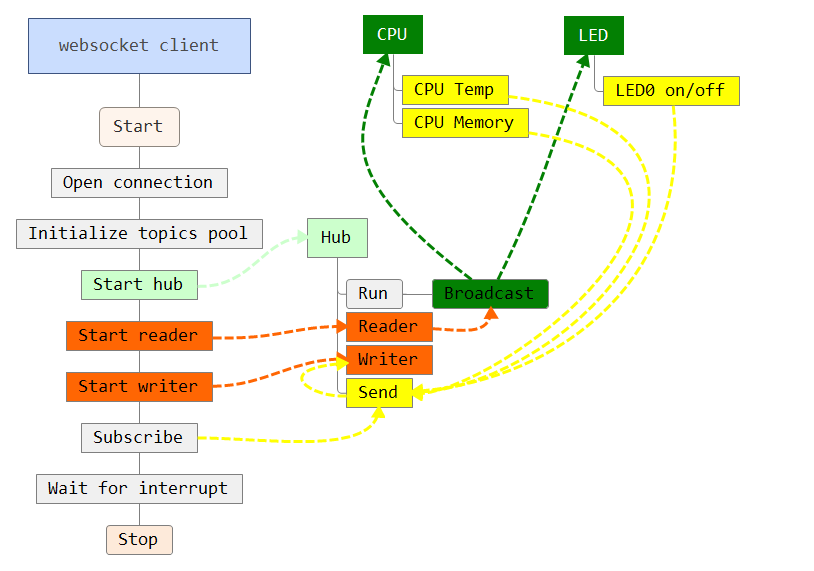
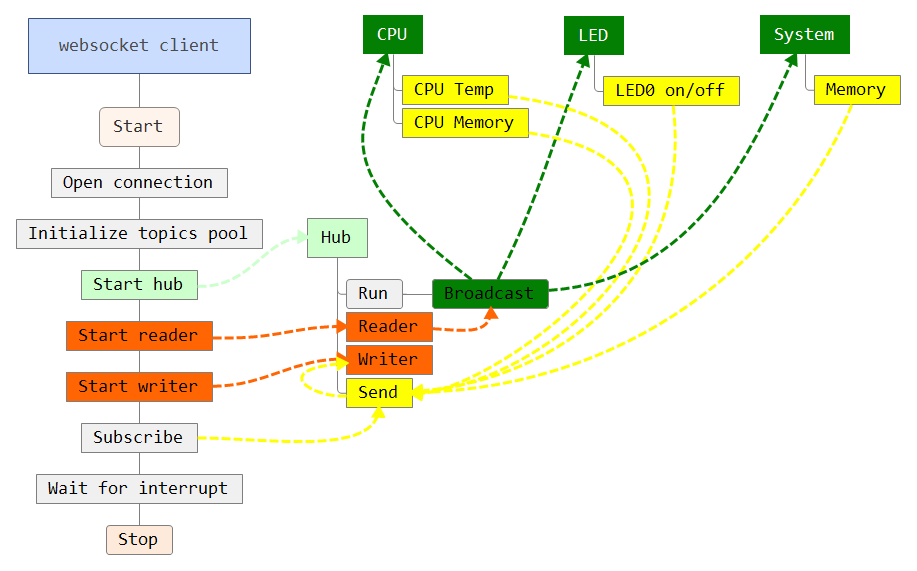
[UPD] add cpu temp, mem and system mem. vendor update, README.md update, mind schema update

diff --git a/src/client/main.go b/src/client/main.go
@@ -5,6 +5,7 @@ import (
 	"log"
 	"os"
 	"os/signal"
+	"strconv"
 	"time"
 
 	ctrl "controller"
@@ -17,7 +18,8 @@ import (
 func main() {
 	// variables
 	address := "ws://srv-gkdevmaster.rhcloud.com:8000/ws"
-	version := "0.1.9"
+	pingTimeout := 10
+	version := "0.1.9.2"
 
 	// args
 	for k, arg := range os.Args {
@@ -32,6 +34,11 @@ func main() {
 			err := service.CheckArgs(len(os.Args), k)
 			service.CheckError(err)
 			address = os.Args[k+1]
+		case "-p":
+			err := service.CheckArgs(len(os.Args), k)
+			service.CheckError(err)
+			pingTimeout, err = strconv.Atoi(os.Args[k+1])
+			service.CheckError(err)
 		}
 	}
 
@@ -51,6 +58,7 @@ func main() {
 		"RPI1_LED0":     rpi.Led0,
 		"RPI1_CPU_TEMP": rpi.CpuTemp,
 		"RPI1_CPU_MEM":  rpi.CpuMemory,
+		"RPI1_SYS_MEM":  rpi.SystemMemory,
 	}
 
 	log.Println("Connected to", address)
@@ -67,20 +75,14 @@ func main() {
 	// subscribe
 	ctrl.NewSubscribe(hub).Subscribe(topics)
 
-	//ticker := time.NewTicker(time.Second * 3)
-	//defer ticker.Stop()
-
-	// publish
-	//list := []func() []byte{rpi.CpuTemp, rpi.CpuMemory}
+	ticker := time.NewTicker(time.Duration(pingTimeout) * time.Minute)
+	defer ticker.Stop()
 
 	// wait for terminating
 	for {
 		select {
-		//case <-ticker.C:
-		//	for _, f := range list {
-		//		hub.Send(f())
-		//		//time.Sleep(time.Millisecond * 500)
-		//	}
+		case <-ticker.C:
+			hub.Send(ctrl.GetMessage("RPI1_PING", ""))
 
 		case <-interrupt:
 			fmt.Println("Stoping...")

diff --git a/src/command/cmd.go b/src/command/cmd.go
@@ -3,62 +3,13 @@ package command
 import (
 	"log"
 	"os/exec"
-	"strings"
 )
 
-type Command struct {
-}
-
-type args struct {
-	cmd       string
-	cmdArgs   []string
-	cleanArgs []string
-}
-
-// Constructor
-func NewCommand() *Command {
-	return &Command{}
-}
-
-// Command
-func (this *Command) Command(c string) *args {
-	return &args{c, nil, nil}
-}
-
-// Args for command
-func (this *args) Arg(a string) *args {
-	this.cmdArgs = append(this.cmdArgs, a)
-	return this
-}
-
-// String for clean
-func (this *args) Clean(a string) *args {
-	this.cleanArgs = append(this.cleanArgs, a)
-	return this
-}
-
-// Run the command
-func (this *args) Run() string {
-	cmdRes := cmdExec(this.cmd, this.cmdArgs...)
-	if cmdRes == "" {
-		return cmdRes
-	}
-	return clean(cmdRes, this.cleanArgs...)
-}
-
-func cmdExec(name string, args ...string) string {
+func Exec(name string, args ...string) string {
 	out, err := exec.Command(name, args...).Output()
 	if err != nil {
 		log.Println(err)
 		return ""
 	}
 	return string(out)
-}
-
-func clean(str string, args ...string) string {
-	s := strings.TrimSpace(str)
-	for _, arg := range args {
-		s = strings.Replace(s, arg, "", -1)
-	}
-	return s
 }

diff --git a/src/raspberry/cpu.go b/src/raspberry/cpu.go
@@ -1,19 +1,26 @@
 package raspberry
 
+import (
+	ctrl "controller"
+	cmd  "command"
+	"command/cpu"
+)
+
 // Get cpu temp.
 func (this *raspberry) CpuTemp(data string) []byte {
-	temp := this.command.Command("vcgencmd").Arg("measure_temp").Clean("temp=").Clean("'C").Run()
-	if temp == "" {
+	cpuTemp := cpu.Clean(cmd.Exec("vcgencmd", "measure_temp"), "temp=", "'C")
+	if cpuTemp == "" {
 		return nil
 	}
-	return getMessage("RPI1_CPU_TEMP", temp)
+	return ctrl.GetMessage("RPI1_CPU_TEMP", cpuTemp)
 }
 
 // Get cpu memory.
 func (this *raspberry) CpuMemory(data string) []byte {
-	mem := this.command.Command("vcgencmd").Arg("get_mem").Arg("arm").Clean("arm=").Clean("M").Run()
-	if mem == "" {
+
+	cpuMem := cpu.Clean(cmd.Exec("vcgencmd", "get_mem", "arm"), "arm=", "M")
+	if cpuMem == "" {
 		return nil
 	}
-	return getMessage("RPI1_CPU_MEM", mem)
+	return ctrl.GetMessage("RPI1_CPU_MEM", cpuMem)
 }

diff --git a/vendor/src/github.com/gorilla/websocket/example_test.go b/vendor/src/github.com/gorilla/websocket/example_test.go
@@ -12,6 +12,11 @@ import (
 	"github.com/gorilla/websocket"
 )
 
+var (
+	c   *websocket.Conn
+	req *http.Request
+)
+
 // The websocket.IsUnexpectedCloseError function is useful for identifying
 // application and protocol errors.
 //
@@ -20,7 +25,8 @@ import (
 // only expected close message from the client has the code
 // websocket.CloseGoingAway. All other other close messages are likely the
 // result of an application or protocol error and are logged to aid debugging.
-func ExampleIsUnexpectedCloseError(err error, c *websocket.Conn, req *http.Request) {
+func ExampleIsUnexpectedCloseError() {
+
 	for {
 		messageType, p, err := c.ReadMessage()
 		if err != nil {

diff --git a/vendor/src/github.com/gorilla/websocket/server.go b/vendor/src/github.com/gorilla/websocket/server.go
@@ -92,6 +92,9 @@ func (u *Upgrader) selectSubprotocol(r *http.Request, responseHeader http.Header
 // The responseHeader is included in the response to the client's upgrade
 // request. Use the responseHeader to specify cookies (Set-Cookie) and the
 // application negotiated subprotocol (Sec-Websocket-Protocol).
+//
+// If the upgrade fails, then Upgrade replies to the client with an HTTP error
+// response.
 func (u *Upgrader) Upgrade(w http.ResponseWriter, r *http.Request, responseHeader http.Header) (*Conn, error) {
 	if r.Method != "GET" {
 		return u.returnError(w, r, http.StatusMethodNotAllowed, "websocket: method not GET")

diff --git a/src/command/memory/memory.go b/src/command/memory/memory.go
@@ -1,0 +1,21 @@
+package memory
+
+import "strings"
+
+// MemTotal: MemFree: MemAvailable:
+func Clean(str string, args ...string) map[string]string {
+	if str == "" {
+		return nil
+	}
+	result := make(map[string]string)
+	strArray := strings.Split(str, "\n")
+	for _, arg := range args {
+		for _, val := range strArray {
+			if str := strings.Split(val, arg); len(str) == 2 {
+				newStr := strings.TrimSpace(strings.Replace(str[1], "kB", "", -1))
+				result[strings.Replace(arg, ":", "", -1)] = newStr
+			}
+		}
+	}
+	return result
+}

diff --git a/src/raspberry/memory.go b/src/raspberry/memory.go
@@ -1,0 +1,26 @@
+package raspberry
+
+import (
+	"encoding/json"
+	"log"
+
+	cmd "command"
+	"command/memory"
+	ctrl "controller"
+)
+
+// Get system memory.
+func (this *raspberry) SystemMemory(data string) []byte {
+
+	sysMem := memory.Clean(cmd.Exec("cat", "/proc/meminfo"), "MemTotal:", "MemFree:", "MemAvailable:")
+	if sysMem == nil {
+		return nil
+	}
+	jSysMem, err := json.Marshal(sysMem)
+	if err != nil {
+		log.Println(err)
+		return nil
+	}
+
+	return ctrl.GetMessage("RPI1_SYS_MEM", string(jSysMem))
+}

diff --git a/src/raspberry/raspberry.go b/src/raspberry/raspberry.go
@@ -1,28 +1,8 @@
 package raspberry
 
-import (
-	"encoding/json"
-	"log"
-
-	ctrl "controller"
-	cmd "command"
-)
-
 type raspberry struct {
-	command *cmd.Command
 }
 
 func NewRaspberry() *raspberry {
-	return &raspberry{cmd.NewCommand()}
-}
-
-// Get json message
-func getMessage(topic, data string) []byte {
-	pub := &ctrl.WSMessage{"PUBLISH", topic, data}
-	j, err := json.Marshal(pub)
-	if err != nil {
-		log.Println(err)
-		return nil
-	}
-	return j
+	return &raspberry{}
 }

diff --git a/src/controller/wsmessage.go b/src/controller/wsmessage.go
@@ -1,7 +1,23 @@
 package controller
 
+import (
+	"encoding/json"
+	"log"
+)
+
 type WSMessage struct {
 	Action string `json:"action"`
 	Topic  string `json:"topic"`
 	Data   string `json:"data"`
+}
+
+// Get json message
+func GetMessage(topic, data string) []byte {
+	pub := &WSMessage{"PUBLISH", topic, data}
+	j, err := json.Marshal(pub)
+	if err != nil {
+		log.Println(err)
+		return nil
+	}
+	return j
 }

diff --git a/src/service/usage.go b/src/service/usage.go
@@ -18,6 +18,7 @@ func Usage() {
 	fmt.Println()
 	fmt.Println("Options:")
 	fmt.Println("    -a    STR        Server address. [ws://127.0.0.1:8000/ws]")
+	fmt.Println("    -p    INT        Ping timeout.   [10 min]")
 	fmt.Println()
 	fmt.Println("    -h               This help.")
 	fmt.Println("    -v               Print version.")

diff --git a/src/raspberry/led.go b/src/raspberry/led.go
@@ -1,7 +1,11 @@
 package raspberry
 
+import (
+	ctrl "controller"
+)
+
 // Get or Set LED0.
 func (this *raspberry) Led0(data string) []byte {
-	pub := getMessage("RPI1_LED0", "OFF")
+	pub := ctrl.GetMessage("RPI1_LED0", "OFF")
 	return pub
 }

diff --git a/src/command/cpu/cpu.go b/src/command/cpu/cpu.go
@@ -1,0 +1,11 @@
+package cpu
+
+import "strings"
+
+func Clean(str string, args ...string) string {
+	for _, arg := range args {
+		str = strings.Replace(str, arg, "", -1)
+	}
+	str = strings.TrimSpace(str)
+	return str
+}
